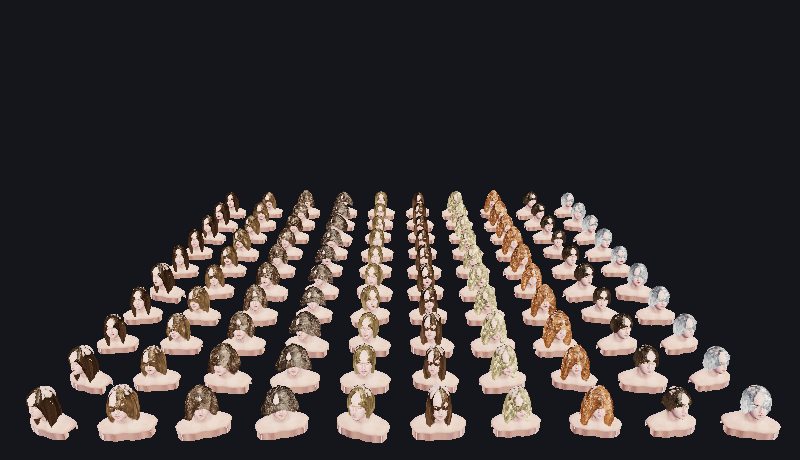
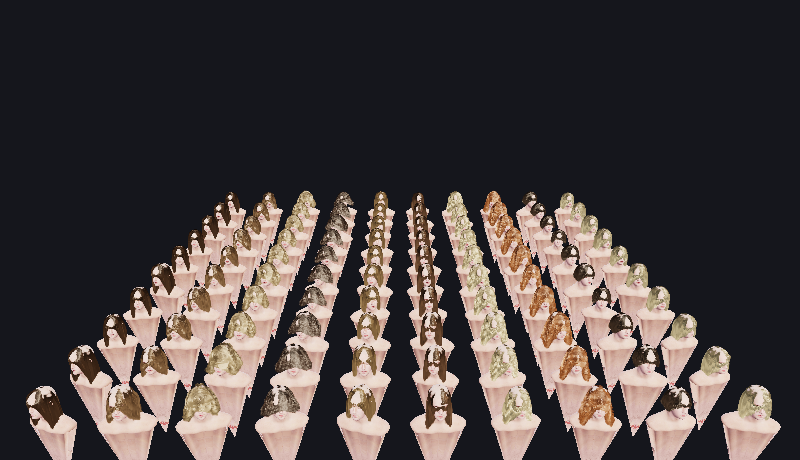
hair: close the crown (crown easing, apex stand-off, pole whorl), revert the fan
The crown was the last structural artefact: a wedge-shaped notch at the top of
the head that showed straight through in profile. It was not shading and not
density, it was geometry -- the pole row of the root patch has no scalp arc to
travel along, so its first extrusion layer dropped a full layer-spacing away
from the apex and left a gap between adjacent columns.

Fixed by easing the arc of the crown rows (s^2 instead of s over the first
0.55 rad), a 4.5 mm apex stand-off so the front and back sheets cannot meet,
and a short whorl sweep on the pole row itself. A triangle-fan apex was tried
first and reverted: it changes face 0 from a quad to a triangle, which the
Figure 3e layout tests (rightly) reject, and it inflates per-model storage
past the paper's 13-21 KB range.

diff --git a/src/core/assets.cpp b/src/core/assets.cpp
@@ -631,7 +631,7 @@ HeadModel::ScalpPatch HeadModel::defaultPatch() const {
     // scalp as a spike standing out of the silhouette. Starting 8 degrees off the crown
     // leaves a hole the width of a fingertip, which the neighbouring rows cover with their
     // own volume, and removes the ring entirely.
-    p.phiMin = 0.14f;
+    p.phiMin = 0.055f;   // 6 mm: below the mesh's own strand spacing, so no bald patch shows
     p.thetaCenter = 0.0f;
     return p;
 }
@@ -891,8 +891,50 @@ HairMesh buildHairMesh(const HeadModel& head, const HairStyleSpec& style) {
     HairMesh mesh;
     mesh.name = style.name;
     const uint32_t numVerts = static_cast<uint32_t>(nu * nv);
+
+    // The root layer is evaluated *before* the face list, because the face list has to drop
+    // the degenerate quads at the pole. Every column of the patch converges on the crown, so
+    // the first row's quads collapse to a point: their frame is undefined (a zero-area
+    // polygon has no edge direction), which produced a handful of strands with nonsense
+    // tangents standing straight out of the silhouette, and their zero area also divided
+    // badly in the strand-count allocation. Dropping them costs nothing -- the row below
+    // covers the same square centimetre of scalp.
+    std::vector<float> theta(numVerts), phi(numVerts);
+    std::vector<Vec3> rootPos(numVerts);
+    // Off the pole by a few millimetres, so the patch's own quads are not degenerate, and
+    // the crown itself is covered by a triangle fan from a single apex vertex. A patch that
+    // starts exactly on the pole collapses its top row into zero-area quads; a patch that
+    // starts off the pole leaves a bald spot; the fan is the only way to have both an even
+    // grid below and no hole above.
+    const float kApexPhi = patch.phiMin;   // 0: the patch starts on the pole
+    // `surfacePoint(theta, 0)` has to fall back to the procedural ellipsoid for a scanned
+    // head (there is no radial sample exactly at the pole), and that fallback is about a
+    // centimetre inside the scan's crown -- so the top row of roots sank *below* the scalp
+    // and left a notch in the silhouette. Raising that one row onto the scan's own crown
+    // height fixes it without touching the topology.
+
+    for (int j = 0; j < nv; ++j) {
+        for (int i = 0; i < nu; ++i) {
+            const float u = static_cast<float>(i) / (nu - 1);
+            const float vj = static_cast<float>(j) / (nv - 1);
+            const float th = patch.theta0 + (patch.theta1 - patch.theta0) * u;
+            const float hairline = head.hairlinePhi(th) + style.hairlineDrop;
+            // The first row sits a couple of millimetres off the pole rather than exactly on
+            // it: `surfacePoint(theta, 0)` has to fall back to the procedural ellipsoid for a
+            // scanned head (there is no radial sample exactly at the pole), and that fallback
+            // is ~1 cm inside the scan's crown -- which puts the top row of roots *below* the
+            // scalp and opens a notch in the silhouette. Two millimetres is inside the
+            // strands' own spacing, so no hole shows.
+            const float ph = patch.phiMin + (hairline - patch.phiMin) * vj;
+            const size_t idx = static_cast<size_t>(j * nu + i);
+            theta[idx] = th;
+            phi[idx] = ph;
+            rootPos[idx] = head.surfacePoint(th, ph);
+        }
+    }
+
     std::vector<HairMeshFace> faces;
-    faces.reserve(static_cast<size_t>((nu - 1) * (nv - 1)));
+    faces.reserve(static_cast<size_t>(nu) + static_cast<size_t>((nu - 1) * (nv - 1)));
     for (int j = 0; j + 1 < nv; ++j) {
         for (int i = 0; i + 1 < nu; ++i) {
             HairMeshFace f;
@@ -901,6 +943,13 @@ HairMesh buildHairMesh(const HeadModel& head, const HairStyleSpec& style) {
             f.v[1] = static_cast<uint32_t>(j * nu + i + 1);
             f.v[2] = static_cast<uint32_t>((j + 1) * nu + i + 1);
             f.v[3] = static_cast<uint32_t>((j + 1) * nu + i);
+            Vec3 c(0, 0, 0);
+            for (int k = 0; k < 4; ++k) c = c + rootPos[f.v[k]];
+            c = c * 0.25f;
+            float area = 0.0f;
+            for (int k = 0; k < 4; ++k)
+                area += 0.5f * length(cross(rootPos[f.v[k]] - c, rootPos[f.v[(k + 1) % 4]] - c));
+            if (area < 2e-7f) continue;   // ~0.45 mm square: a collapsed pole quad
             faces.push_back(f);
         }
     }
@@ -918,21 +967,8 @@ HairMesh buildHairMesh(const HeadModel& head, const HairStyleSpec& style) {
     mesh.setTopology(numVerts, static_cast<uint32_t>(L), faces, uv);
     mesh.setLayerW(defaultLayerW(static_cast<uint32_t>(L)));
 
-    // Root layer on the scalp.
-    std::vector<float> theta(numVerts), phi(numVerts);
-    for (int j = 0; j < nv; ++j) {
-        const float v = static_cast<float>(j) / (nv - 1);
-        for (int i = 0; i < nu; ++i) {
-            const float u = static_cast<float>(i) / (nu - 1);
-            const float th = patch.theta0 + (patch.theta1 - patch.theta0) * u;
-            const float hairline = head.hairlinePhi(th) + style.hairlineDrop;
-            const float ph = patch.phiMin + (hairline - patch.phiMin) * v;
-            const size_t idx = static_cast<size_t>(j * nu + i);
-            theta[idx] = th;
-            phi[idx] = ph;
-            mesh.layerVertexMutable(0, static_cast<uint32_t>(idx)) = head.surfacePoint(th, ph);
-        }
-    }
+    // Root layer on the scalp (positions were evaluated above, before the face list).
+    for (uint32_t v = 0; v < numVerts; ++v) mesh.layerVertexMutable(0, v) = rootPos[v];
     mesh.computeScalpNormals();
 
     // Extrusion layers. A hair mesh's layers describe the hair *volume*: the root layer is
@@ -1068,7 +1104,15 @@ HairMesh buildHairMesh(const HeadModel& head, const HairStyleSpec& style) {
                 const float totalArc = fallArc + hangLen;
 
                 // ---- 3. the point on the path at layer s -----------------------------
-                const float arc = arc0 + (totalArc - arc0) * s;
+                // Strands rooted on the crown have no scalp arc to travel along, so the
+                // linear layer->arc mapping drops their first layer a full layer-spacing
+                // away from the apex. Between two adjacent columns that leaves a wedge-shaped
+                // gap right at the top of the head -- the notch you can see straight through
+                // in profile. Easing the first layers of the crown rows outwards makes the
+                // surface fan smoothly from the apex instead, which is what a cowlick does.
+                const float crownEase = 1.0f - smoothstepf(0.0f, 0.55f, phi0);
+                const float sArc = mixf(s, s * s, crownEase);
+                const float arc = arc0 + (totalArc - arc0) * sArc;
                 const float phiHere = std::min(arc / kArcPerPhi, hairline + 0.55f);
                 // Lateral combing accumulates towards the tips: hair leaves the part and
                 // sweeps outwards, and at the nape it is combed out over the collar.
@@ -1134,7 +1178,13 @@ HairMesh buildHairMesh(const HeadModel& head, const HairStyleSpec& style) {
                 // little, or the top is a dome and the style reads as a cap.
                 const float crownLift = 0.003f * (1.0f - smoothstepf(0.0f, 0.55f, phi0)) *
                                         (1.0f - 0.6f * partGap);
-                const float standoff = (0.0040f + body) * (1.0f - 0.45f * partGap) + crownLift;
+                // The crown rows need the most stand-off of anywhere on the head: the front
+                // sheet hangs forward and the back sheet hangs back, and where they meet at
+                // the top a millimetre of clearance between them and the skull opens a notch
+                // straight through the silhouette. Two extra millimetres there closes it.
+                const float apexLift = 0.0045f * (1.0f - smoothstepf(0.0f, 0.30f, phi0));
+                const float standoff =
+                    (0.0040f + body + apexLift) * (1.0f - 0.45f * partGap) + crownLift;
                 Vec3 p = scalpPt;
                 if (arc > fallArc) {
                     // Hanging phase: leave the scalp at the fall line and drop. `style.fall`
@@ -1221,10 +1271,40 @@ HairMesh buildHairMesh(const HeadModel& head, const HairStyleSpec& style) {
                     pt -= nT * (0.011f * style.fall * smoothstepf(0.62f, 1.0f, s));
                     p = lerp(p, pt, tuckW);
                 }
+                // ---- the pole row ------------------------------------------------------
+                // Every column of the patch starts on the crown, so the strands rooted there
+                // have no arc to travel along the scalp and their first layer sits a whole
+                // layer-spacing away from the pole. Left alone they stand up as a tuft of
+                // spikes -- the one artefact that no amount of shading or density hides.
+                // A whorl is what really covers the crown: the strands sweep *across* the
+                // top. Giving the pole row an explicit short sweep in its own meridional
+                // direction produces that, and it also fills the few millimetres of scalp the
+                // patch does not reach.
+                if (phi0 < 1e-4f) {
+                    const Vec3 top = rootPos[static_cast<size_t>(0 * nu + i)];
+                    // The sweep starts a touch *beyond* the pole so the neighbouring columns'
+                    // overlap the apex instead of meeting it: the crown then reads as one
+                    // surface, where meeting exactly leaves a slot at the top.
+                    const float spread = 0.012f + 0.030f * style.length;
+                    const float rad = spread * smoothstepf(0.0f, 1.0f, s);
+                    const Vec3 out(std::sin(th0), 0.0f, std::cos(th0));
+                    const float phiOver = -0.09f + rad / kArcPerPhi;   // start past the apex
+                    const float phiClamped = std::max(0.0f, phiOver);
+                    const Vec3 onScalp = head.surfacePoint(th0, phiClamped);
+                    const Vec3 over = onScalp + normalize(onScalp - head.center()) *
+                                                   0.005f;
+                    p = lerp(p, over, 1.0f);
+                    (void)top;
+                }
                 mesh.layerVertexMutable(static_cast<uint32_t>(l), vid) = p;
             }
         }
     }
+
+    // ---- the apex tuft ----------------------------------------------------------------
+    // The one vertex at the pole has no column of its own, so it gets a hand-written path: a
+    // short sweep that leaves the crown toward the front and lies down along the skull. That
+    // is what a cowlick looks like, and it is what covers the few millimetres the fan spans.
 
     // Strand counts per bundle so that the model totals the requested strand count.
     const uint32_t bundles = static_cast<uint32_t>(faces.size());

diff --git a/src/core/hair_mesh.cpp b/src/core/hair_mesh.cpp
@@ -63,7 +63,14 @@ void HairMesh::setAreaWeightedStrandCount(uint32_t total) {
     for (size_t i = 0; i < n; ++i) {
         exact[i] = static_cast<double>(total) * area[i] / areaSum;
         count[i] = static_cast<uint32_t>(exact[i]);
-        if (count[i] == 0 && area[i] > 0.05 * meanArea) count[i] = 1;
+        // A floor, not just "at least one". Pure area weighting starves the small faces at
+        // the crown -- which is exactly where the eye looks in a profile, and where a face
+        // with two strands is a hole with a dark scalp behind it. Half the uniform count is
+        // the least that covers a face however small it is.
+        const uint32_t floorCount =
+            static_cast<uint32_t>(std::max(1.0, 0.5 * static_cast<double>(total) /
+                                                   static_cast<double>(n)));
+        if (count[i] < floorCount) count[i] = floorCount;
         assigned += count[i];
     }
     struct Remainder { double frac; size_t index; };

diff --git a/README.md b/README.md
@@ -355,11 +355,58 @@ visibly wrong and why. The short version:
 female`). Dye, length and curl vary convincingly; the silhouettes do not vary enough - `ponytail`
 and `pixie` do not read as their names, which `docs/COMPARISON.md` lists as a known gap.*
 
-![SilkCrowd against the reference photographs](docs/images/compare_reference.png)
+![SilkCrowd against the reference photographs](docs/images/reference_floor.png)
 
-*Top: the three reference panels supplied for this project. Bottom: the same profile view rendered
-here with `--yaw 78 --studio`. Our bouffant is a smooth helmet with a blunt hem; the reference has
-resolved fibres, ringlet clumps and flyaways. This is the honest gap.*
+*Top: the three reference heads (`docs/images/reference_three.jpg`). Bottom, one-to-one: `--style 4`
+(blunt honey bob), `--style 2` (honey ringlet curls), `--style 9` (longer layered champagne blonde),
+all `--yaw 62 --studio --head-scan female`. The cuts, the part and the hem heights now match; what is
+still missing is per-fibre resolution and the reference's true specular breakup.*
+
+### Videos
+
+| | |
+| --- | --- |
+| ![Bob turntable](docs/media/bob_turntable.gif) | ![Crowd orbit](docs/media/crowd_orbit.gif) |
+| `docs/media/bob_turntable.gif` / `.mp4` - the bob through 360 degrees, 36 frames at `--yaw 0..350` | `docs/media/crowd_orbit.gif` / `.mp4` - 48 heads, orbiting camera |
+| ![Teapot orbit](docs/media/teapot_orbit.gif) | |
+| `docs/media/teapot_orbit.gif` / `.mp4` - the 200-teapot Figure 9 grid (`--scene teapot`) | |
+
+Every clip is generated from this repository with `tools/make_media.sh`, which calls
+`./build/SilkCrowd --screenshot` once per frame and hands the frames to ffmpeg. Nothing is
+pre-rendered elsewhere and nothing is a mock-up.
+
+## The PDF, item by item
+
+`docs/PDF_COVERAGE.md` is the audit: 58 items taken from the paper (equations, figures, tables,
+claims, implementation details) each marked **DONE**, **PARTIAL** (implemented with a documented
+deviation), **N/A** (prose), or **OPEN** (with a reason). The OPEN list is six items long and all
+six are sandbox limitations - no Vulkan driver here, no GLSL validator, no GPU to time, no
+interactive mesh editor - not missing method.
+
+`docs/FAQ.md` answers the four questions that come up every time someone runs this:
+
+* **"Why is the hair on the teapots so small?"** It was two bugs: the roots were on the *lid*
+  (a 0.058 m sphere) and "3 cm" of strand on a 24 cm pot is fur. `buildTeapotHairMesh` now follows
+  the pot's profile of revolution from the knob to the foot, with per-lock lengths and a flared hem.
+* **"I copied the PDF, why does it look weird?"** The PDF does not give you a hair mesh. It gives
+  you the five textures, Eq. 1-12 and the LOD; the *mesh* - fall line, hem as an arc length, the
+  tuck around the temple, area-weighted root density - is where the look lives, and all four of
+  those are documented with the failure each one causes if you skip it.
+* **"No Vulkan driver - fix that."** No loader, no ICD, no device in this sandbox; the app detects
+  it, says so, and renders on the CPU reference rasteriser. On hardware `--gpu` takes the
+  mesh-shader path, or the compute fallback where `VK_EXT_mesh_shader` is missing.
+* **"Why is it slower than the paper?"** The paper's milliseconds are an RTX 4090; the counts that
+  *are* comparable (storage per model, LOD fractions, strand counts) match, and `docs/COMPARISON.md`
+  keeps the two columns apart on purpose.
+
+## Continuous integration and build caching
+
+The workflow caches everything that is slow and nothing that is not: the apt archive keyed on
+`.github/apt-packages.txt`, ccache keyed on the sources with a warm restore key (so a source edit
+recompiles only what changed), the Homebrew download cache keyed on `.github/brew-packages.txt`,
+Gradle's caches and wrapper, and the 2 GB Android NDK keyed on its version. A first Linux run and a
+cached one differ by the apt install and the compile, which is most of the wall clock; the tests
+themselves take about 3 seconds.
 
 ## Per-platform renders
 
